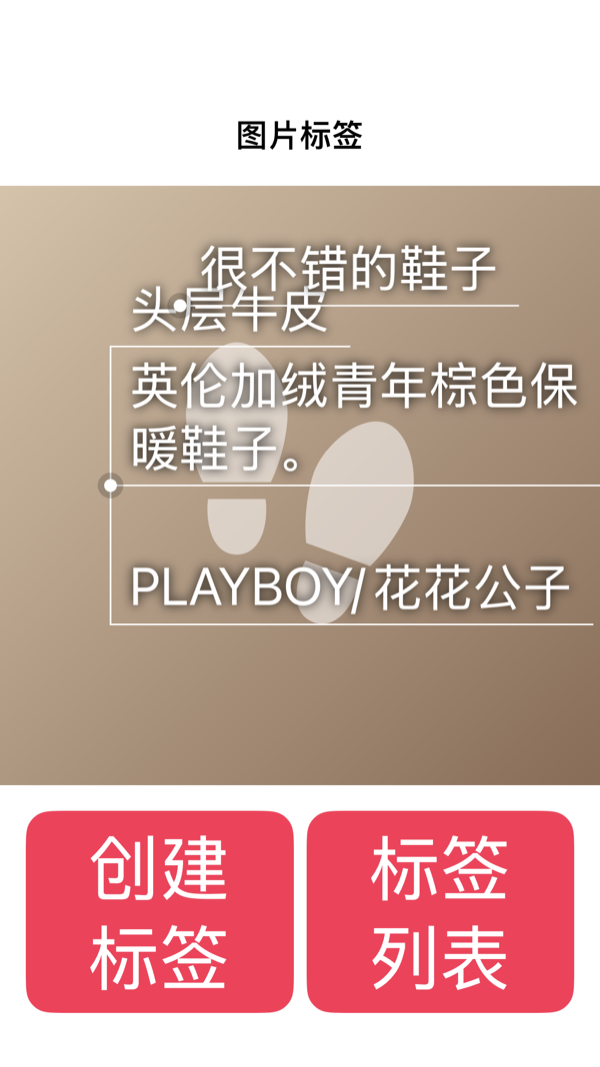
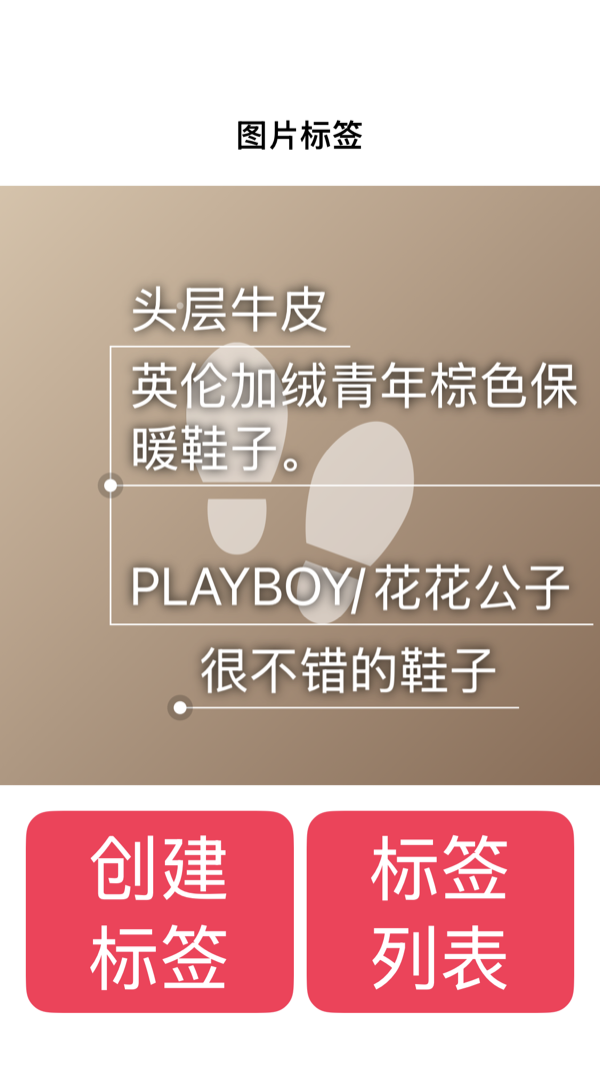
fix: 🐛 picture tag groups never cover each other
- At the largest text sizes the second tag group of the image tag sample
  lay on the first one. CYLImageTagView now moves a group that overlaps an
  earlier one up or down by the smallest distance that clears it and stays
  inside the picture. Only the display moves (CYLImageTagGroupView
  displayOffset); percentPosition and the data do not change, and groups
  stay where they are dragged while editing. occupiedFrame gives a group's
  dot and tags.
- testPictureTagsGrowWithDynamicType checks the groups apart at the
  largest and the default size; screenshot and tagviewgroup-api.md updated.

By @ChenYilong <luohanchenyilong@163.com>

Claude-Session: https://claude.ai/code/session_017y7XP1mQbtZ3qSM2mvdshG

diff --git a/Example/CYLMenuExampleTests/CYLAndroidSampleAccessibilityTests.swift b/Example/CYLMenuExampleTests/CYLAndroidSampleAccessibilityTests.swift
@@ -235,7 +235,18 @@ final class CYLAndroidSampleAccessibilityTests: CYLMenuExampleTestCase {
         sample.tagImageView.layoutIfNeeded()
         XCTAssertGreaterThan(label.font.pointSize, base)
         XCTAssertGreaterThanOrEqual(label.bounds.height, label.font.lineHeight, "the group remeasured the tag")
+        // The two groups no longer cover each other: the second moves for display only, its position is kept.
+        let groups = sample.tagImageView.groupViews
+        XCTAssertEqual(groups.count, 2)
+        XCTAssertFalse(groups[0].occupiedFrame.intersects(groups[1].occupiedFrame),
+                       "\(groups[0].occupiedFrame) / \(groups[1].occupiedFrame)")
+        XCTAssertTrue(sample.tagImageView.bounds.contains(groups[1].occupiedFrame.insetBy(dx: 0.5, dy: 0.5)) ||
+                      groups[1].displayOffset == .zero, "a moved group stays inside the picture")
+        XCTAssertEqual(groups[1].percentPosition, CGPoint(x: 0.3, y: 0.2), "the data does not change")
         captureScreen(named: "test-sample-image-tag-large-text")
         navigation.view.window?.traitOverrides.preferredContentSizeCategory = .large
+        runMainLoop(for: 0.1)
+        sample.tagImageView.layoutIfNeeded()
+        XCTAssertFalse(groups[0].occupiedFrame.intersects(groups[1].occupiedFrame), "apart at the default size too")
     }
 }

diff --git a/CollectionViewClassifyMenu/Class/ImageTag/CYLImageTagView.m b/CollectionViewClassifyMenu/Class/ImageTag/CYLImageTagView.m
@@ -116,6 +116,65 @@
     }
 }
 
+#pragma mark Layout
+
+- (void)layoutSubviews {
+    [super layoutSubviews];
+    [self cyl_separateGroups];
+}
+
+- (void)traitCollectionDidChange:(UITraitCollection *)previousTraitCollection {
+    [super traitCollectionDidChange:previousTraitCollection];
+    [self setNeedsLayout];
+}
+
+/*!
+ * Keeps groups from covering each other (large Dynamic Type sizes make tags taller): each group that overlaps an
+ * earlier one moves up or down by the smallest distance that clears every earlier group and stays inside the view.
+ * Only the display moves (`displayOffset`); `percentPosition` and the groups' data do not change. While editing,
+ * groups stay where they are dragged.
+ */
+- (void)cyl_separateGroups {
+    static const CGFloat spacing = 4;
+    NSMutableArray<NSValue *> *placed = [NSMutableArray array];
+    CGFloat height = CGRectGetHeight(self.bounds);
+    for (CYLImageTagGroupView *view in self.views) {
+        view.displayOffset = CGPointZero;
+        [view layoutIfNeeded];
+        if (self.editing || view.isGroupHidden) {
+            [placed addObject:[NSValue valueWithCGRect:view.occupiedFrame]];
+            continue;
+        }
+        CGRect frame = view.occupiedFrame;
+        BOOL (^clear)(CGFloat) = ^BOOL(CGFloat dy) {
+            CGRect moved = CGRectOffset(frame, 0, dy);
+            if (CGRectGetMinY(moved) < 0 || CGRectGetMaxY(moved) > height) return NO;
+            for (NSValue *value in placed) {
+                if (CGRectIntersectsRect(CGRectInset(moved, 0, -spacing / 2), value.CGRectValue)) return NO;
+            }
+            return YES;
+        };
+        if (clear(0)) {
+            [placed addObject:[NSValue valueWithCGRect:frame]];
+            continue;
+        }
+        CGFloat best = CGFLOAT_MAX;
+        for (NSValue *value in placed) {
+            CGRect other = value.CGRectValue;
+            for (NSNumber *candidate in @[@(CGRectGetMaxY(other) + spacing - CGRectGetMinY(frame)),
+                                          @(CGRectGetMinY(other) - spacing - CGRectGetMaxY(frame))]) {
+                CGFloat dy = candidate.doubleValue;
+                if (fabs(dy) < fabs(best) && clear(dy)) best = dy;
+            }
+        }
+        if (best != CGFLOAT_MAX) {
+            view.displayOffset = CGPointMake(0, best);
+            [view layoutIfNeeded];
+        }
+        [placed addObject:[NSValue valueWithCGRect:view.occupiedFrame]];
+    }
+}
+
 - (NSArray<CYLImageTagGroupView *> *)groupViews {
     return [self.views copy];
 }
@@ -136,6 +195,7 @@
         self.groupConfiguration(view, self.views.count - 1);
     }
     [self addSubview:view];
+    [self setNeedsLayout];
 }
 
 - (void)removeTagGroupAtIndex:(NSUInteger)index {
@@ -157,6 +217,7 @@
 
 - (void)setEditing:(BOOL)editing {
     _editing = editing;
+    [self setNeedsLayout];
     for (CYLImageTagGroupView *view in self.views) {
         view.draggable = editing;
         view.showsRipple = !editing;

diff --git a/CollectionViewClassifyMenu/Class/ImageTag/CYLImageTagGroupView.m b/CollectionViewClassifyMenu/Class/ImageTag/CYLImageTagGroupView.m
@@ -302,6 +302,23 @@ static BOOL CYLImageTagDirectionIsLeft(CYLImageTagDirection direction) {
 - (void)setCircleInnerColor:(UIColor *)color { _circleInnerColor = color; [self cyl_updateCircles]; }
 - (void)setLineColor:(UIColor *)color { _lineColor = color; [self setNeedsLayout]; }
 
+- (void)setDisplayOffset:(CGPoint)displayOffset {
+    if (CGPointEqualToPoint(_displayOffset, displayOffset)) {
+        return;
+    }
+    _displayOffset = displayOffset;
+    [self setNeedsLayout];
+}
+
+- (CGRect)occupiedFrame {
+    CGFloat radius = self.circleRadius;
+    CGRect frame = CGRectMake(self.centerPoint.x - radius, self.centerPoint.y - radius, 2 * radius, 2 * radius);
+    for (UIView *view in self.itemViews) {
+        frame = CGRectUnion(frame, view.frame);
+    }
+    return frame;
+}
+
 - (void)setPercentPosition:(CGPoint)percentPosition {
     _percentPosition = CGPointMake(MIN(1, MAX(0, percentPosition.x)), MIN(1, MAX(0, percentPosition.y)));
     [self setNeedsLayout];
@@ -481,7 +498,7 @@ static BOOL CYLImageTagDirectionIsLeft(CYLImageTagDirection direction) {
     if (used.left > cx) cx += used.left - cx;
     if (used.bottom > height - cy) cy -= used.bottom - (height - cy);
     if (used.top > cy) cy += used.top - cy;
-    self.centerPoint = CGPointMake(cx, cy);
+    self.centerPoint = CGPointMake(cx + self.displayOffset.x, cy + self.displayOffset.y);
     for (CAShapeLayer *line in self.lineLayers) {
         [line removeFromSuperlayer];
     }

diff --git a/CollectionViewClassifyMenu/Class/ImageTag/CYLImageTagGroupView.h b/CollectionViewClassifyMenu/Class/ImageTag/CYLImageTagGroupView.h
@@ -201,6 +201,15 @@ IB_DESIGNABLE
  * The dot's center, in the view's coordinates (getCenterPoint).
  */
 @property (nonatomic, assign, readonly) CGPoint centerPoint;
+/*!
+ * Points added to the dot's place after it is computed from `percentPosition`, without changing
+ * `percentPosition`. CYLImageTagView sets it to keep groups from covering each other; zero by default.
+ */
+@property (nonatomic, assign) CGPoint displayOffset;
+/*!
+ * The area the group draws in, in the view's coordinates: the dot and every tag, after the last layout.
+ */
+@property (nonatomic, assign, readonly) CGRect occupiedFrame;
 
 #pragma mark Tags
 /*!

diff --git a/docs/tagviewgroup-api.md b/docs/tagviewgroup-api.md
@@ -139,3 +139,7 @@ None. 无。
   long press and dragging (上移 / 下移 / 左移 / 右移); tags in edit mode say "轻点两下改变方向"; tag text scales with
   Dynamic Type, lines grow and long tags wrap instead of overlapping. Strings in English, Simplified and Traditional
   Chinese. Verified by `CYLAndroidSampleAccessibilityTests`.
+- Groups never cover each other (2026-11-12): when a group's dot and tags (`occupiedFrame`) would overlap an earlier
+  group, `CYLImageTagView` moves it up or down by the smallest distance that clears it and stays inside the picture
+  (`displayOffset`); `percentPosition` and the data do not change. While editing, groups stay where they are
+  dragged. Verified at the largest text size in `CYLAndroidSampleAccessibilityTests`.
